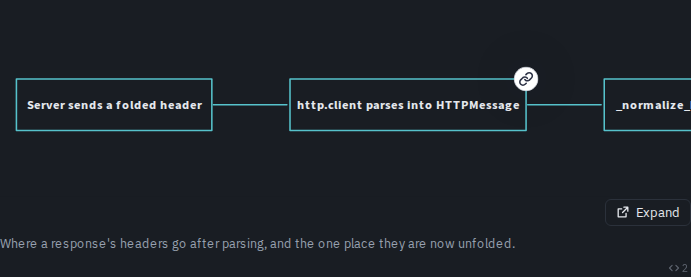
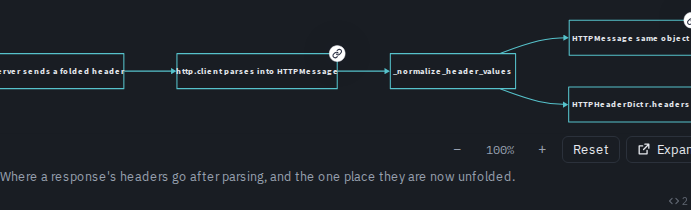
Round-two docs: inline zoom, breakout, multi-line sanitiser fix (#47, #16)

diff --git a/packages/web/src/mock/d2diagrams.ts b/packages/web/src/mock/d2diagrams.ts
@@ -66,13 +66,13 @@ function multiline(theme: DiagramTheme): string {
     `<rect x="180" y="100" width="120" height="20" fill="black"/></mask></defs>` +
     `<rect x="0" y="0" width="460" height="220" fill="${bg}"/>` +
     `<a href="#" data-refs="diff:src-urllib3-connection.py:80-82" data-src="diff:src-urllib3-connection.py:80-82">` +
-    `<rect x="20" y="30" width="180" height="80" rx="6" fill="${box}" stroke="${edge}" stroke-width="2"/>` +
-    `<text x="110" y="58" fill="${ink}" style="text-anchor:middle;font-size:16px">` +
+    `<rect x="20" y="30" width="180" height="80" rx="6" fill="${box}" stroke="${edge}" stroke-width="2" class="stroke-B1 fill-B6"/>` +
+    `<text x="110" y="58" fill="${ink}" class="fill-N1" style="text-anchor:middle;font-size:16px">` +
     `<tspan x="110" dy="0">first line</tspan><tspan x="110" dy="18.5">second line</tspan></text></a>` +
-    `<rect x="260" y="20" width="180" height="90" rx="6" fill="${box}" stroke="${edge}" stroke-width="2"/>` +
-    `<text x="350" y="44" fill="${ink}" style="text-anchor:middle;font-size:16px">` +
+    `<rect x="260" y="20" width="180" height="90" rx="6" fill="${box}" stroke="${edge}" stroke-width="2" class="stroke-B1 fill-B6"/>` +
+    `<text x="350" y="44" fill="${ink}" class="fill-N1" style="text-anchor:middle;font-size:16px">` +
     `<tspan x="350" dy="0">one</tspan><tspan x="350" dy="17.6">two</tspan><tspan x="350" dy="17.6">three</tspan></text>` +
-    `<path d="M 200 150 H 440" stroke="${edge}" stroke-width="2" fill="none" mask="url(#d2mock-ml-mask)"/>` +
+    `<path d="M 200 150 H 440" stroke="${edge}" stroke-width="2" fill="none" class="connection stroke-B1" mask="url(#d2mock-ml-mask)"/>` +
     `<text x="240" y="113" fill="${ink}" style="text-anchor:middle;font-size:14px;font-style:italic">edge label</text></svg>`
   );
 }

diff --git a/docs/acceptance-audit.md b/docs/acceptance-audit.md
@@ -259,23 +259,37 @@ needed (that deviation is closed, not added).
   reset-to-fit on a CSS transform (no new dependency, no CSP change);
   citation hover/click work inside it and a drag never counts as a click
   (`guide/DiagramOverlay.tsx`, `e2e/d2-diagram-overlay.spec.ts`,
-  `guide/DiagramOverlay.test.tsx`).
-- Diagrams stay legible inline (#16) — met: a wide diagram floors at the
-  width that keeps D2's 16px labels at the guide's 12.5px small text and
-  scrolls horizontally inside the card instead of shrinking further
-  (`D2Diagram legibleText`, `e2e/d2-diagrams.spec.ts` "wide diagram keeps
-  labels legible"); Expand is the way to see it whole. The uniform D2
+  `guide/DiagramOverlay.test.tsx`). The overlay opens on the measured
+  fit (whole content incl. badges, equal margins, never above 100%).
+- Diagrams zoom inline (#47, round two) — met: blocks fit by default
+  (no scrollbars, never above natural size) with +/−/Reset beside
+  Expand on the same shared hook (`panZoom.ts`, `usePanZoom.ts`,
+  `ZoomControls.tsx`); trackpad pinch and Ctrl/Cmd+wheel zoom, a plain
+  wheel scrolls the page, drag pans once zoomed. With spare pane room
+  the block breaks out past the text column, centered, up to the usable
+  width (ResizeObserver; caption and citations stay column-aligned;
+  cards and Explain expansions alike). Citations work at any zoom
+  (`e2e/d2-diagram-inline.spec.ts`,
+  `guide/DiagramInlineZoom.test.tsx`).
+- Diagrams stay legible inline (#16) — met: multi-line labels no longer
+  collapse (the service allowlist dropped tspan `x`/`dy`, collapsing
+  every line onto one baseline; `dx` and edge-mask `maskUnits` were
+  dropped too — all kept now, plus `url()` rewrites in every adopted
+  attribute client-side so masks/markers/clips survive namespacing).
+  Data-dir cache filenames carry `DIAGRAM_POSTPROCESS_VERSION` with a
+  legacy sweep, and the demo seeds were re-recorded (`d2-seed-check
+  --strict` green; snapshot hashes unchanged). The uniform D2
   blue is remapped to the guide palette by stylesheet rules over D2's
-  shape classes (served bytes and seeds untouched), with `.class: [ok]` /
-  `[bad]` for ok/warn states (`e2e/d2-diagrams.spec.ts` "diagram wears
+  shape classes, with `.class: [ok]` / `[bad]` for ok/warn states
+  (`e2e/d2-diagrams.spec.ts` "diagram wears
   the guide palette", `docs/d2-diagrams.md` "Look"). Uneven letter
   spacing (#16) reproduces identically in headed Chromium, so it is not
   a session artifact: D2's embedded subset font carries no kerning
   tables (WOFF has OS/2, cmap, glyf, head, hhea, hmtx, loca, maxp, name,
   post — no GPOS/GSUB/kern), and neither side's sanitiser touches font
   bytes. Not fixed in app code (overriding the family would break D2's
-  tight box layout); shorter labels + the size floor + overlay zoom are
-  the mitigations.
+  tight box layout); shorter labels + inline/overlay zoom are the
+  mitigations.
 - Undo (depth/examples/diagram, no redo, comments/expansions survive) —
   met (`actions/undo.ts`, `actions-m4.test.ts`).
 - Mark read (grey + collapse), roll-up to page, muted links — met

diff --git a/PRD.md b/PRD.md
@@ -108,7 +108,7 @@ Every card and every expansion card has the same controls:
   - + at the deepest level adds an "Underlying principle" block.
   - Depth versions are generated **on demand** and kept once made.
 - **Use examples** and **Add diagram:** insert example or diagram blocks after the paragraphs they relate to, never duplicating one already there.
-- **Diagrams** render inline in the card with labels at no less than the guide's small-text size,   scrolling horizontally inside the card when wider than the column; **Expand** opens a diagram out of the column in a full-window view with wheel/pinch zoom, drag pan, +/− buttons and reset-to-fit. Esc or the close control shuts it and focus returns to Expand. Citation hover previews and click-to-reveal work the same expanded as inline. Diagrams wear the guide palette in both themes, with `.class: [ok]` / `[bad]` on shapes for good/bad states.
+- **Diagrams** render inline in the card at fit: the whole diagram visible, no scrollbars, never above natural size. +/−/Reset zoom in place (trackpad pinch and Ctrl/Cmd+wheel zoom; a plain wheel scrolls the page), drag pans once zoomed. When the guide pane has spare room the block breaks out past the text column, centered, up to the usable width; caption and citations stay column-aligned. **Expand** opens the same diagram out of the column in a full-window view with the same zoom/pan plus reset-to-fit. Esc or the close control shuts it and focus returns to Expand. Citation hover previews and click-to-reveal work the same expanded, inline, and zoomed. Diagrams wear the guide palette in both themes, with `.class: [ok]` / `[bad]` on shapes for good/bad states.
 - **Undo:** reverts the card's last change (depth, examples or diagram). There's no history trail and no redo. Comments and expansions attached to the card survive undo.
 - **Mark read:** greys the card and collapses it to its title row. Unmarking expands it.
 - **Read state rolls up:** a page is read when all of its cards are, and links to fully read pages show muted.

diff --git a/docs/d2-diagrams.md b/docs/d2-diagrams.md
@@ -40,8 +40,9 @@ stanzas stay rejected by the pre-check (they can smuggle fonts).
 6. Render light and dark, rewrite citation anchors to `<a href="#" data-refs data-src>`, strip `<title>` tooltips that contain tokens, sanitise, and cache by content hash. The web app fetches `GET /api/reviews/:id/diagrams/:hash?theme=`.
 
 The sanitiser keeps everything D2 needs for layout: tspan `x`/`dy`
-(multi-line labels), `mask` + `maskUnits` (the gap edges leave behind
-their labels). The data-dir cache filenames carry
+(multi-line labels) and `dx`, `mask` + `maskUnits` (the gap edges leave
+behind their labels), plus the `url()` references to them through both
+the service and the per-instance web adopt passes. The data-dir cache filenames carry
 `DIAGRAM_POSTPROCESS_VERSION` (`<hash>.v<version>.<theme>.svg`), so
 renders cached by an older sanitiser are never served stale — legacy
 unversioned files are swept on start. Fixture seeds keep the unversioned
